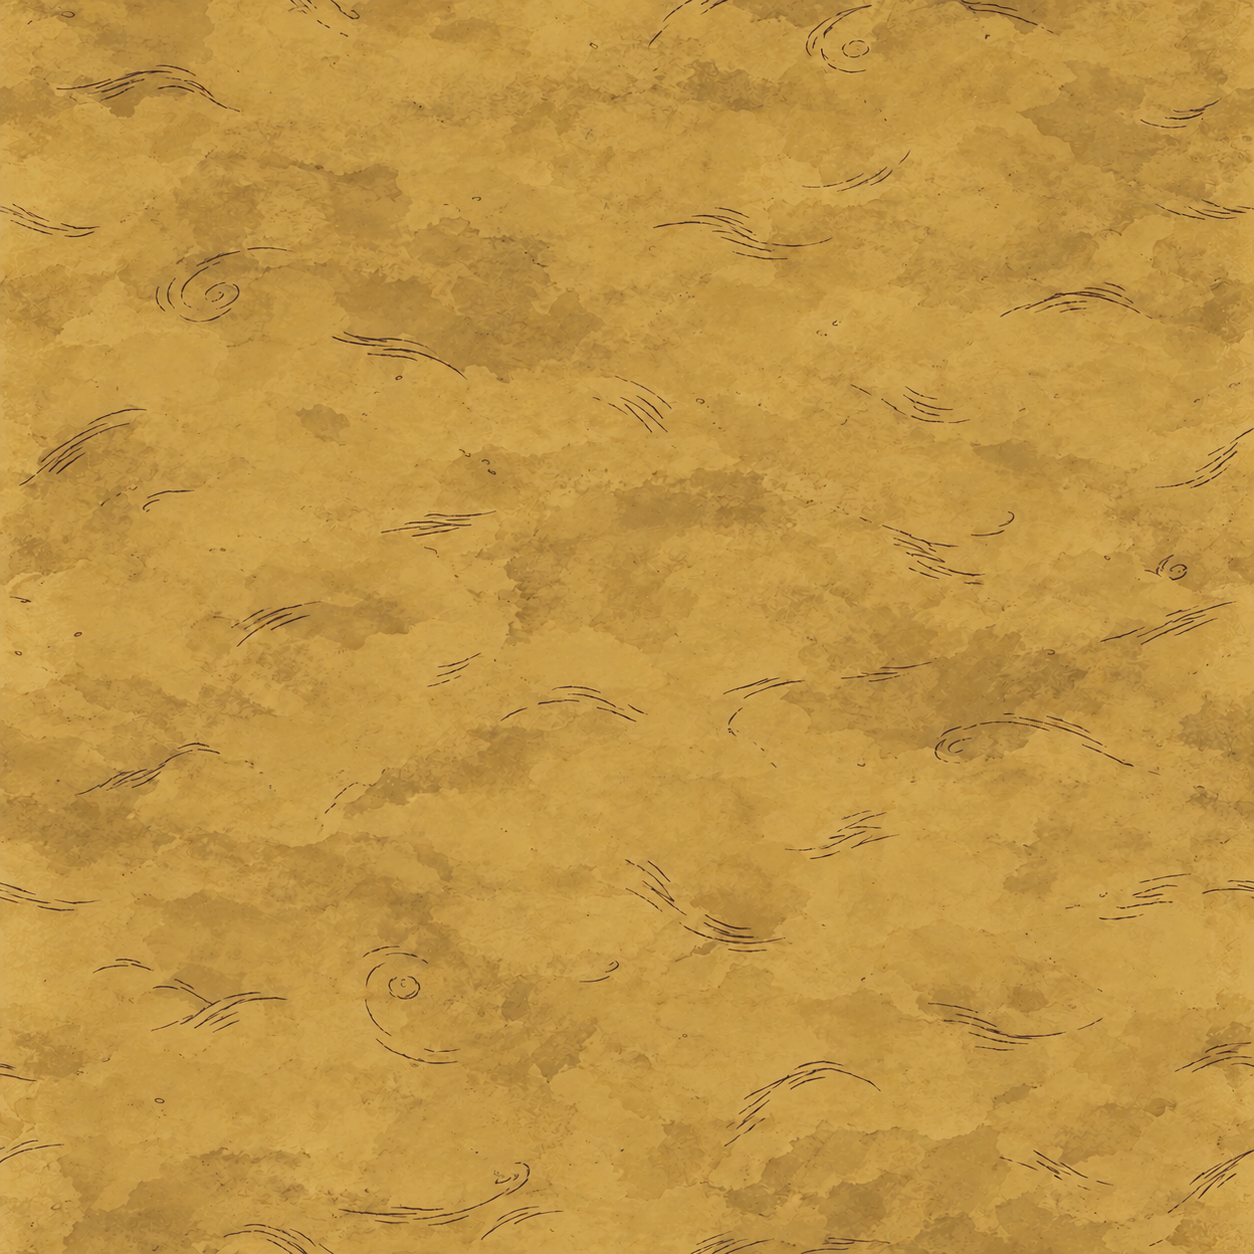
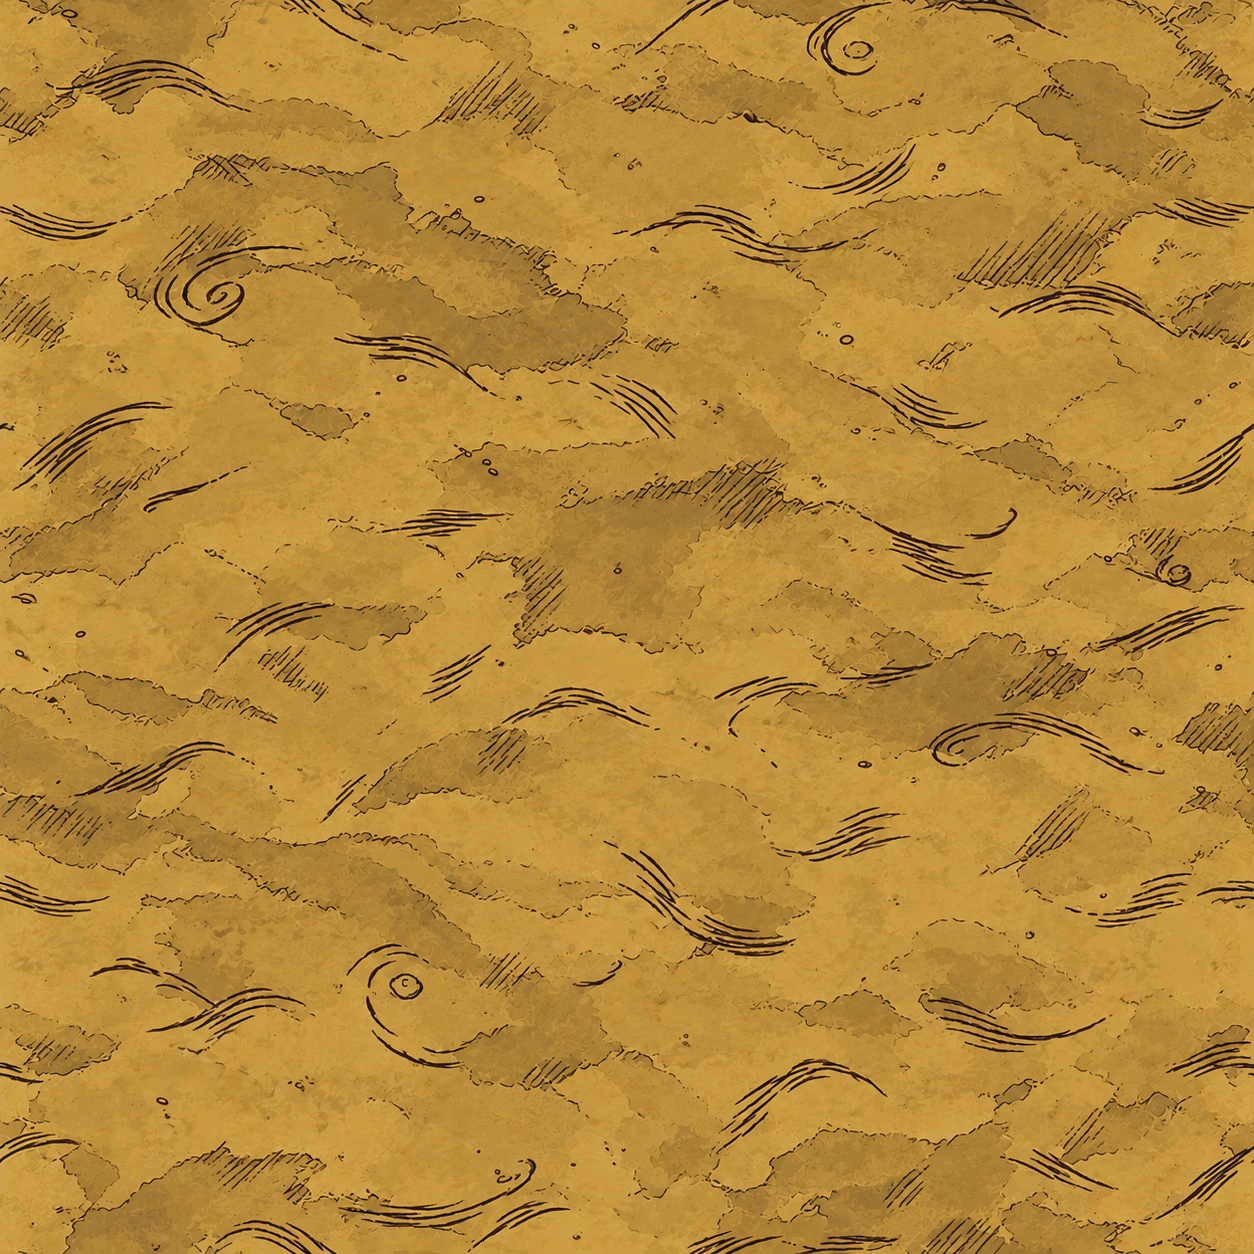
v0.0.9

diff --git a/Editor/terrain/GENERATION_ALL_INK.md b/Editor/terrain/GENERATION_ALL_INK.md
@@ -1,0 +1,107 @@
+# Ujednolicenie wszystkich tekstur podłoża
+
+Specyfikacja edycji z 2026-10-29. Tryb: wbudowane narzędzie `image_gen`, osobne wywołanie dla każdego materiału, `transparent_background: false`.
+
+Cel każdego wywołania: `Editor/terrain/<nazwa>.png` (obraz 1, wersja sprzed podmiany). Wspólny wzorzec stylu: `Editor/terrain/stone_tiles_ink.png` (obraz 2). Materiały są podmieniane pod dotychczasowymi nazwami, aby zapisane mapy korzystały z ujednoliconego stylu. Istniejące warianty `_ink` zachowują swoje pliki. `stone_tiles.png` korzysta z identycznej kopii zaakceptowanego `stone_tiles_ink.png`.
+
+Pełny prompt każdej edycji to wspólna specyfikacja zakończona nowym wierszem, a następnie właściwy `Material-specific direction`.
+
+## Wspólna specyfikacja
+
+```text
+Use case: style-transfer
+Asset type: a single square seamless top-down terrain albedo PNG in a consistent game texture library.
+Primary request: redraw input image 1 in the same Don't Starve inspired dark pen-and-ink visual style as the approved input image 2.
+Input image 1: edit target. Preserve its ground material identity, approximate feature scale and overall material color family.
+Input image 2: approved style reference ONLY (stone_tiles_ink.png). Match its dark irregular contours, visible scratchy crosshatching, imperfect doubled strokes, matte flat fills and dark whimsical handmade character. Do not copy its stones or paving layout into other materials.
+Style/medium: hand-drawn 2D ink illustration, uneven bold near-black and dark-brown outlines defining the material's natural shapes, sparse expressive grouped hatch marks, crooked angular details, restrained muted flat colors. Clearly visible dark ink at game zoom, as strong as the reference. Redraw the whole surface into the illustrated style rather than merely overlaying a few hairline marks on painterly detail.
+Composition: strictly orthographic top-down view of a flat continuous material surface, square and edge-to-edge with evenly distributed detail and no focal subject.
+Lighting: diffuse flat albedo, no cast shadows or directional highlights.
+Invariants: retain the material identity and color family of input 1; match the ink style and line contrast of input 2; keep the texture usable as flat terrain.
+Output: one opaque square PNG, 1254 x 1254 pixels. Seamless horizontal and vertical tiling: opposite edges must join naturally with continuous material shapes, no frame or edge darkening.
+Avoid: realism, 3D rendering, polished bevels, photographic grain, dense speckled noise, soft painterly brushwork, gradients, vignette, neon colors, strong illumination, perspective, scene, props, characters, lettering, watermark, grid of samples, parchment sheet, paper backdrop, borders or transparent margins.
+```
+
+## `cobblestone.png`
+
+```text
+Material-specific direction: irregular rounded polygonal cobblestones in dusty grey and taupe with a little muted sage. About 9 to 11 stones across. Bold crooked dark ink borders around each stone and deep inked joints, small angular chips and sparse diagonal crosshatch groups. Uneven natural paving, not rectangular bricks or a wall.
+```
+
+## `dirt.png`
+
+```text
+Material-specific direction: compact brown dirt path ground. Muted warm umber and dusty ochre flat earth patches with dark scratchy soil contours, short loose grouped hatch strokes and occasional tiny black-outlined pebbles. Most of the texture is fine compact soil, not large rocks or a network of dried clay polygons.
+```
+
+## `grass.png`
+
+```text
+Material-specific direction: green grass ground, retaining a recognizably fresh natural green family but with more muted olive and moss-green flat fills. Small irregular grass clusters defined by strong scratchy near-black pointed blade outlines and grouped hatches, evenly scattered in a quiet green ground carpet. Around 10 to 14 small tufts across. No large plants, flowers, stones or huge blades.
+```
+
+## `stone.png`
+
+```text
+Material-specific direction: broad natural bedrock ground in grey-brown and muted neutral grey. Uneven connected flat stone plates with jagged dark hand-inked cracks, chipped contours, sparse diagonal hatch clusters and a few tiny angular stone fragments. Geological continuous bedrock, not laid paving or ochre cracked clay.
+```
+
+## `grass_calm.png`
+
+```text
+Material-specific direction: calm low-contrast short grass, subdued medium olive and moss-green flat fills with gently varied patches. Clear dark irregular ink outlines on small low grass tufts and sparse crosshatch groups; leave more breathing room between tufts than on normal grass. Still distinctly black-inked, not blurred or unoutlined. No flowers, rocks or large plants.
+```
+
+## `grass_dry.png`
+
+```text
+Material-specific direction: dry meadow grass, dusty straw ochre, desaturated tan and dull olive flat fills. Crooked short straw tufts and bent pointed blades traced with strong dark brown-black ink and loose scratchy hatching. About 12 small clusters across, even all-over density. No flowers, stones or bright yellow glow.
+```
+
+## `moss.png`
+
+```text
+Material-specific direction: soft low moss carpet, muted deep forest green and dull olive cushions. Flatten the small lobed cushion shapes into hand-drawn matte colored patches with wobbly dark ink scalloped contours, a few short curly strokes and little crosshatch groups. Make it clearly moss, not grass blades, bushes or rocks.
+```
+
+## `forest_floor.png`
+
+```text
+Material-specific direction: dark woodland floor, muted umber earth with small scattered brown and ochre decaying leaves, thin pine-needle groups and tiny twig fragments. Draw leaves and needles in irregular dark ink outlines with quick veins and scratchy hatching; use quiet flat earthy fills. Keep the scattered fine-scale sparse litter character and visible soil, not a solid thick orange autumn-leaf blanket.
+```
+
+## `mud.png`
+
+```text
+Material-specific direction: damp soft mud in dark muted brown and grey-umber. Flat irregular rounded wet clay swirls and shallow puddle rims outlined with loose dark ink contours, occasional short crosshatch groups and small smeared soil marks. Matte stylized damp ground, not glossy photorealistic reflections, dried polygon cracks, stones, footprints or wheel tracks.
+```
+
+## `gravel.png`
+
+```text
+Material-specific direction: loose gravel of many small irregular angular pebbles in dusty grey, taupe, muted tan and a few dull ochre pieces. Each readable pebble has a crooked near-black outline and occasional small hatch marks, scattered over dull brown soil. About 18 to 24 small pebbles across. Keep pebbles much smaller than cobblestones, not large laid paving.
+```
+
+## `sand.png`
+
+```text
+Material-specific direction: dry sand in muted sandy ochre and warm tan flat fills. Short dark hand-inked wavy wind-ripple contours, small grouped curved hatch strokes, sparse scratchy grain marks, evenly spaced without a focal dune. Calm sand surface with clear dark drawing; no stones, footprints, vegetation or huge dunes.
+```
+
+## `sand_wet.png`
+
+```text
+Material-specific direction: wet shore sand in darker muted cool taupe and grey-brown flat fills. Loose near-black curved tidal-ripple lines and broken shallow wash contours, small grouped scratchy hatches, subtle restrained tonal variation. Keep it distinct from warm dry sand. No bright reflections, standing water, shells, footprints or vegetation.
+```
+
+## `snow.png`
+
+```text
+Material-specific direction: snowy ground with off-white and pale desaturated blue-grey flat fills. Shallow irregular soft snow drifts defined by broken dark charcoal ink contours and sparse short scratchy hatch clusters along their depressions. Keep broad light areas so it reads as snow but ensure the same visible hand-drawn ink language as the style reference. No snowflake icons, footprints, rocks, ice blocks or black fill areas.
+```
+
+## `water.png`
+
+```text
+Material-specific direction: a repeatable flat water surface, muted slate-blue and dull blue-green flat fills with dark hand-drawn little ripple arcs, crooked short wave contours and sparse curved crosshatch groups evenly distributed. The tiny original is a material identity and color reference; redraw at full requested 1254 x 1254 size. It was fully opaque, so retain an opaque background. No shore, foam, rocks, fish, sky reflection or ocean scene.
+```

diff --git a/Editor/README.md b/Editor/README.md
@@ -80,38 +80,32 @@ Teren ma siatki GPU w fragmentach **16 × 16** kafelków. Malowanie aktualizuje 
 
 Po dodaniu materiałów uruchom aplikację ponownie. Na razie grafiki postaci są statyczne: nie ma obsługi arkuszy animacji. Bez grafiki postaci wyświetlany jest niebieski znacznik. Wbudowane materiały podłoża to grass, dirt, sand i stone. Woda ma własne narzędzie Water i zachowuje wybrany materiał dna.
 
-Dodatkowe materiały są osobnymi plikami, dostępnymi w **Ground** po ponownym uruchomieniu aplikacji. Oryginalna trawa pozostaje jako `grass.png`; jej spokojniejszy wariant to `grass_calm.png`. Pozostałe bazowe materiały zachowują dotychczasowe nazwy.
+Wszystkie tekstury w `Editor/terrain/` mają wspólny styl inspirowany **Don’t Starve**: ciemne, poszarpane kontury tuszem, widoczne kreskowanie i przygaszone kolory. Dotyczy to również bazowych materiałów oraz `cobblestone.png`. Podmiana zachowuje nazwy plików i identyfikatory materiałów, więc istniejące mapy otrzymują ten wygląd po ponownym uruchomieniu aplikacji.
 
 | Plik | Materiał |
 | --- | --- |
-| [grass_calm.png](terrain/grass_calm.png) | Spokojniejsza, mniej kontrastowa zielona trawa. |
-| [grass_dry.png](terrain/grass_dry.png) | Sucha, żółtawa trawa do polan i łąk. |
-| [moss.png](terrain/moss.png) | Zielony mech do wilgotnych fragmentów lasu. |
-| [forest_floor.png](terrain/forest_floor.png) | Leśna ściółka z drobnymi liśćmi i igliwiem. |
-| [mud.png](terrain/mud.png) | Ciemne, wilgotne błoto. |
-| [gravel.png](terrain/gravel.png) | Drobny żwir do dróg i otoczenia skał. |
-| [cobblestone.png](terrain/cobblestone.png) | Kamienny bruk do ścieżek i zabudowań. |
-| [sand_wet.png](terrain/sand_wet.png) | Ciemniejszy, mokry piasek do brzegów wody. |
-| [snow.png](terrain/snow.png) | Jasny śnieg z delikatnymi chłodnymi zagłębieniami. |
-| [wood_planks.png](terrain/wood_planks.png) | Zużyte dębowe deski do wnętrz i drewnianych pomostów. |
-| [stone_tiles.png](terrain/stone_tiles.png) | Kamienne płyty do dziedzińców i lochów. |
-| [brick_paving.png](terrain/brick_paving.png) | Ceglany bruk do ścieżek i placów. |
-| [autumn_leaves.png](terrain/autumn_leaves.png) | Jesienna ściółka z opadłymi liśćmi w odcieniach ochry i brązu. |
-| [cracked_earth.png](terrain/cracked_earth.png) | Sucha, spękana ziemia do wyschniętych koryt i dróg. |
-
-Prompty pierwszego zestawu pięciu PNG 1254 × 1254 w malowanym stylu zapisano w [terrain/GENERATION.md](terrain/GENERATION.md).
-
-Warianty w stylu **Don’t Starve** mają końcówkę `_ink`: poszarpane kontury tuszem, kreskowanie i przygaszone kolory. Są osobnymi materiałami w **Ground** po ponownym uruchomieniu edytora.
-
-| Plik | Materiał |
-| --- | --- |
+| [grass.png](terrain/grass.png) | Zielona trawa z ciemnymi konturami źdźbeł i kreskowaniem. |
+| [grass_calm.png](terrain/grass_calm.png) | Spokojniejsza, oliwkowa trawa z rzadszymi kępkami. |
+| [grass_dry.png](terrain/grass_dry.png) | Sucha, słomkowa trawa z poszarpaną kreską. |
+| [dirt.png](terrain/dirt.png) | Ubita ziemia z rysowanymi grudkami i drobnymi kamykami. |
+| [sand.png](terrain/sand.png) | Suchy piasek z ciemnymi liniami zmarszczek. |
+| [sand_wet.png](terrain/sand_wet.png) | Chłodniejszy, mokry piasek z kreskowanymi zagłębieniami. |
+| [stone.png](terrain/stone.png) | Skaliste podłoże z wyraźnymi szczelinami i kreskowaniem. |
+| [moss.png](terrain/moss.png) | Mech z nieregularnymi konturami drobnych poduszek. |
+| [forest_floor.png](terrain/forest_floor.png) | Leśna ściółka z obrysami liści i igliwia. |
+| [mud.png](terrain/mud.png) | Ciemne błoto z rysowanymi grudkami i zagłębieniami. |
+| [gravel.png](terrain/gravel.png) | Drobny żwir z ciemnymi konturami kamyków. |
+| [cobblestone.png](terrain/cobblestone.png) | Nieregularny kamienny bruk z mocnymi konturami tuszem. |
+| [snow.png](terrain/snow.png) | Jasny śnieg z rysowanymi krawędziami zasp i kreskowaniem. |
+| [stone_tiles.png](terrain/stone_tiles.png) | Kamienne płyty, identyczne z zaakceptowanym wariantem `stone_tiles_ink.png`. |
 | [wood_planks_ink.png](terrain/wood_planks_ink.png) | Krzywe, sękate deski z konturami i kreskowaniem. |
 | [stone_tiles_ink.png](terrain/stone_tiles_ink.png) | Ponure płyty kamienne z rysowanymi pęknięciami. |
 | [brick_paving_ink.png](terrain/brick_paving_ink.png) | Ceglany bruk z nieregularną kreską tuszu. |
-| [autumn_leaves_ink.png](terrain/autumn_leaves_ink.png) | Jesienna ściółka z ostrymi konturami liści. |
 | [cracked_earth_ink.png](terrain/cracked_earth_ink.png) | Sucha ziemia z poszarpanymi szczelinami i kreskowaniem. |
 
-Każdy wariant ma 1254 × 1254 px. Prompty i obrazy wejściowe opisano w [terrain/GENERATION_INK.md](terrain/GENERATION_INK.md).
+Każda tekstura ma 1254 × 1254 px. Pomocniczy [water.png](terrain/water.png) również ma kreskowane fale w tym stylu; powierzchnia wody z narzędzia **Water** jest nadal rysowana proceduralnie.
+
+Prompty ujednolicenia całej biblioteki i wspólny wzorzec stylu zapisano w [terrain/GENERATION_ALL_INK.md](terrain/GENERATION_ALL_INK.md). Prompty wcześniejszych wariantów są w [terrain/GENERATION_INK.md](terrain/GENERATION_INK.md); [terrain/GENERATION.md](terrain/GENERATION.md) dokumentuje historyczny pierwszy zestaw.
 
 Podłoże korzysta z kolorów PNG bez dodatkowej korekcji nasycenia, jasności ani barwy. Na mapie wygląd zmieniają blendowanie sąsiednich materiałów, cieniowanie zboczy oraz ustawienia **World → Environment** i światła. Aby porównać kolory z plikiem, wyłącz **Lighting** i **Shadows** oraz sprawdź płaski fragment jednego materiału. Zmiana PNG wymaga ponownego uruchomienia aplikacji, ale nie rekompilacji.
 
